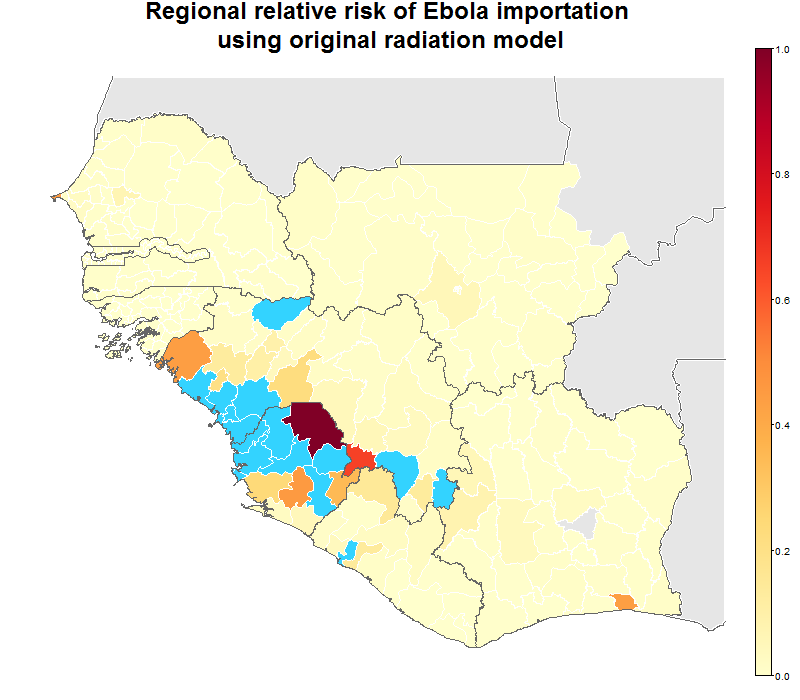
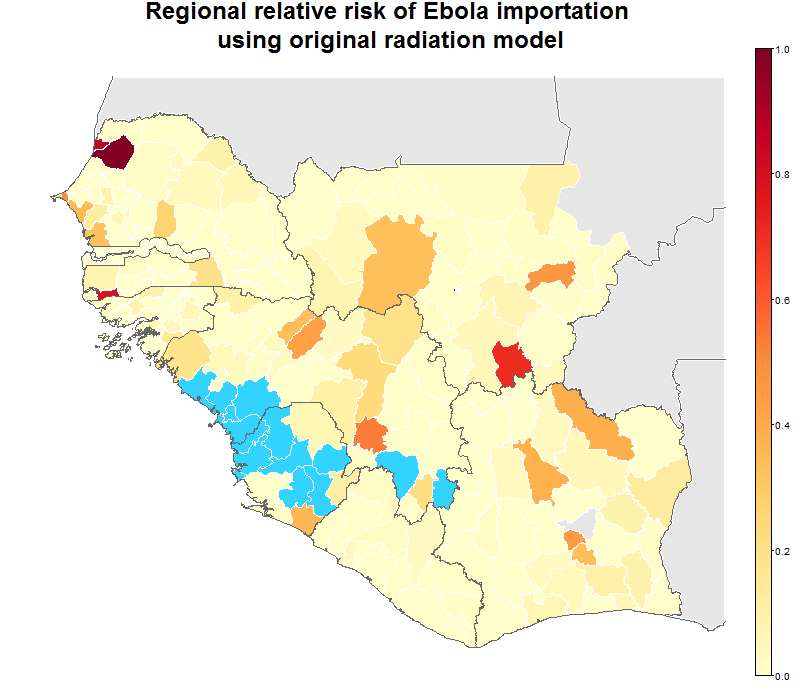
Updated regional risk maps with most recent WHO data (25 March 2015)

diff --git a/local-risk.md b/local-risk.md
@@ -11,7 +11,7 @@ The aim of this analysis is to produce a regional, district level metric of the 
 
 [Risk-doc]: http://seeg-oxford.github.io/ebola-spread/local-risk-doc
 
-### Latest data as of 23 March 2015
+### Latest data as of 26 March 2015
 
 #### Note: The Bélier and Moronou regions of Côte d'Ivoire are currently being predicted incorrectly, hence the gray region in that area. This is being corrected.
 
